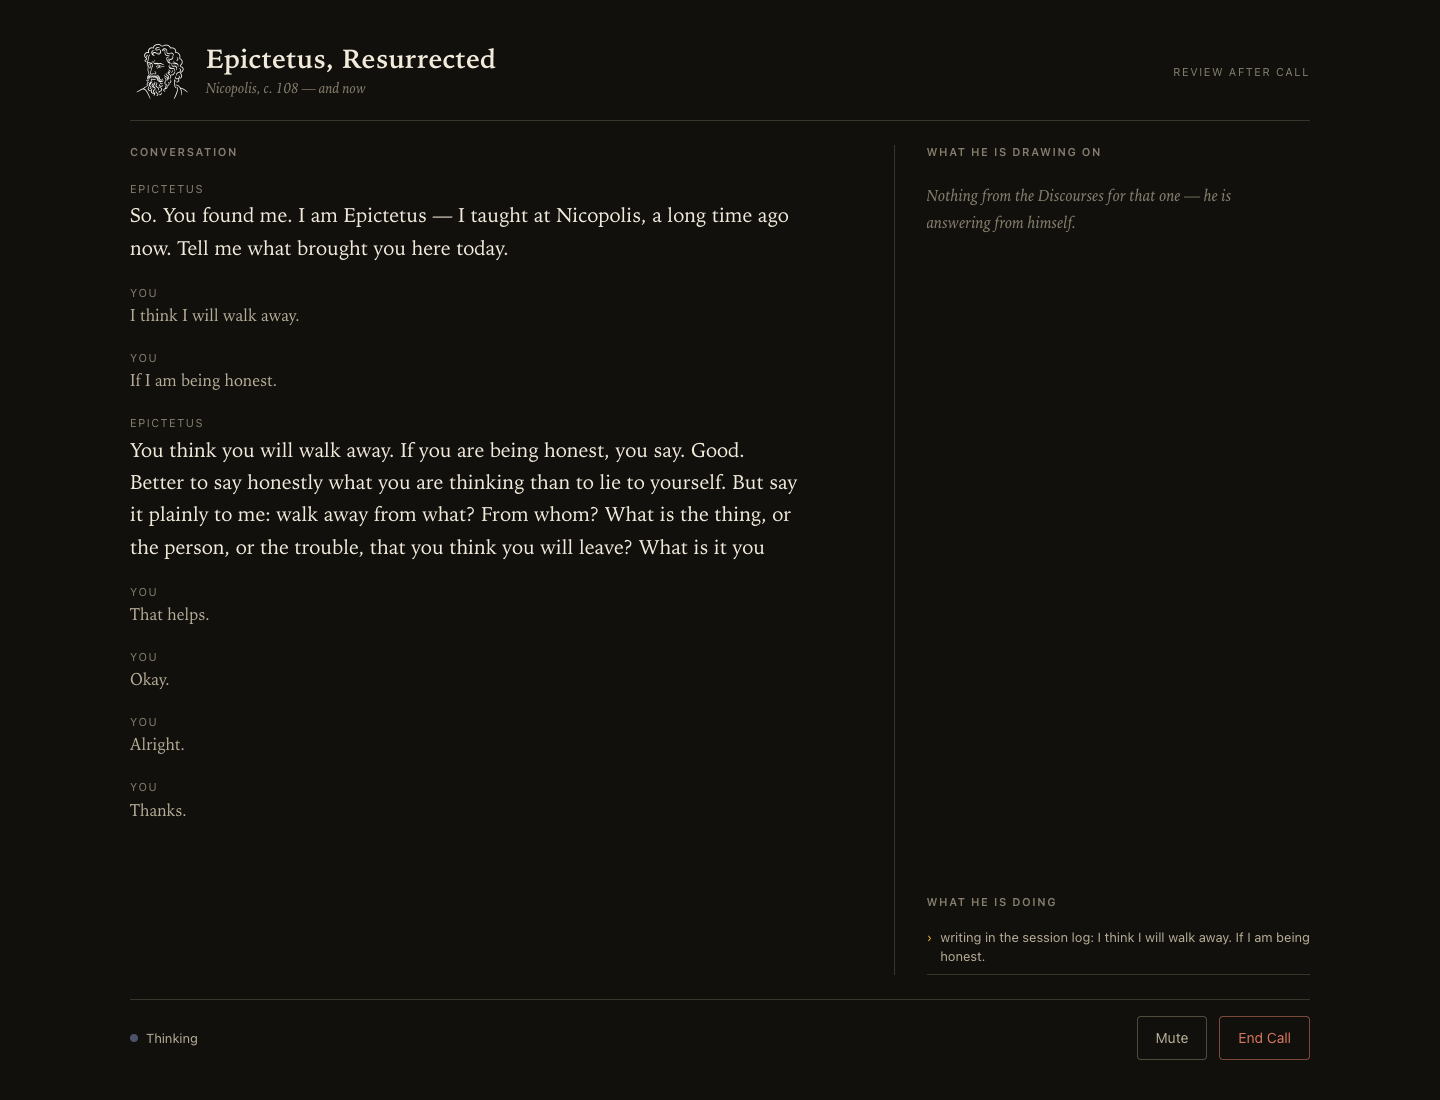
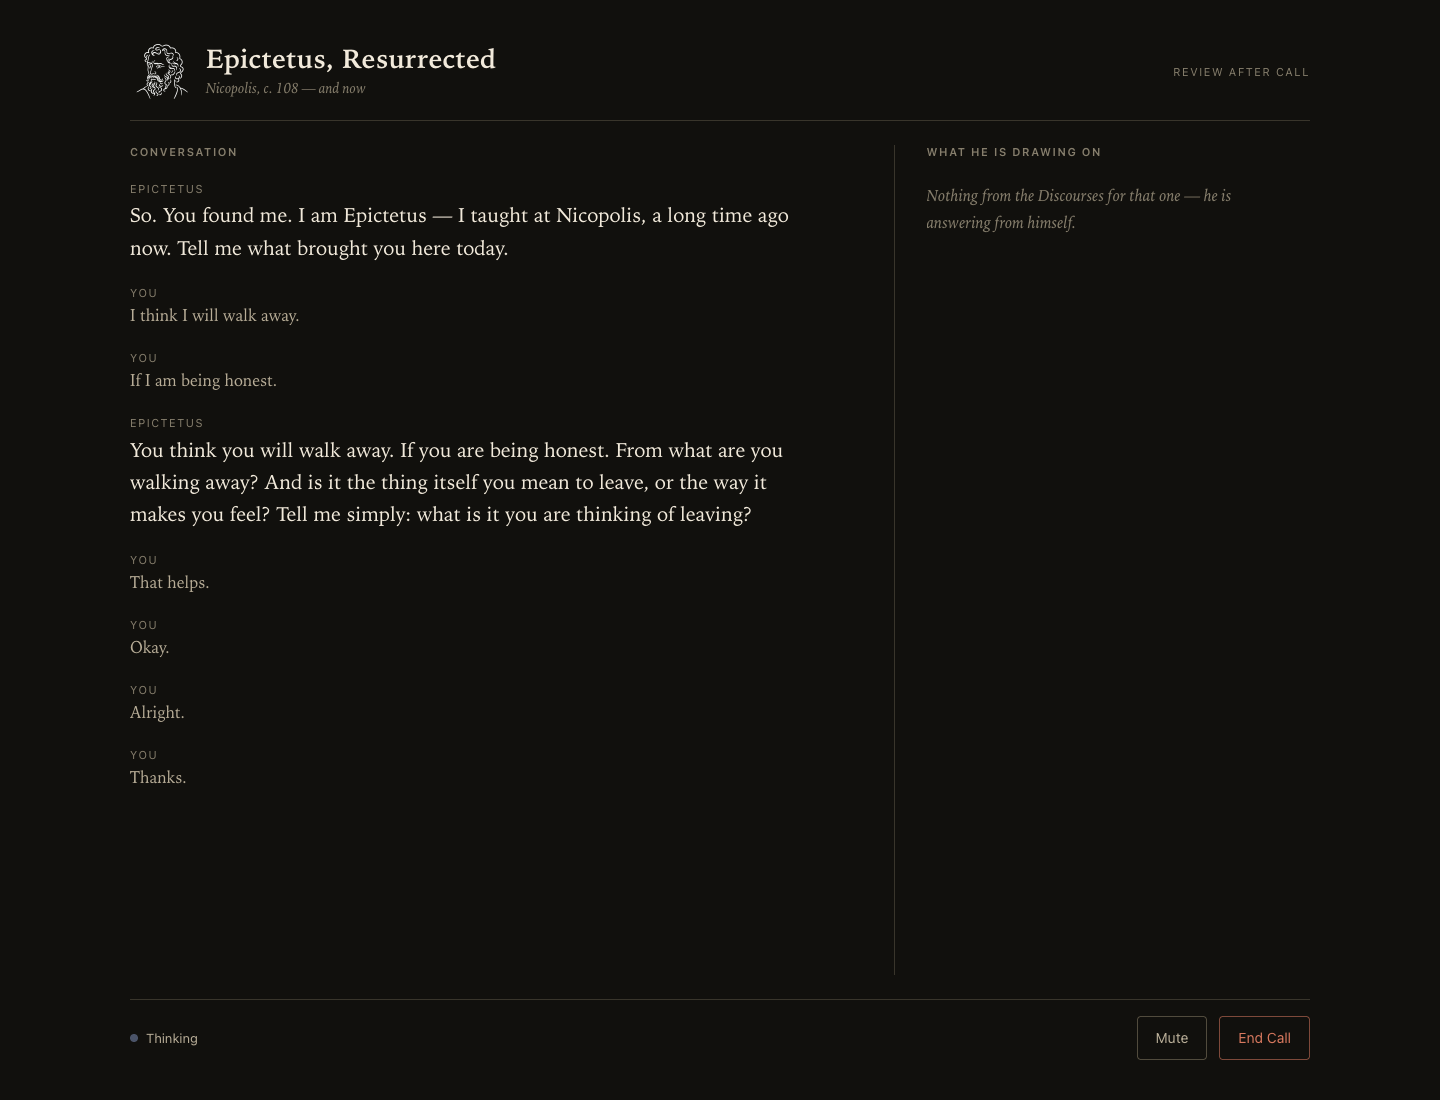
docs: update final production proof

Changed region(s): [[0.0938, 0.4018, 0.5625, 0.7418], [0.6562, 0.8345, 0.8438, 0.8964], [0.875, 0.8345, 0.9062, 0.8655]]

diff --git a/saved-results/rag-luna-filter-2026-07-31.md b/saved-results/rag-luna-filter-2026-07-31.md
@@ -88,9 +88,9 @@ Those values match the recorded ranking quality. Its raw-score check correctly n
 ## Production deployment and browser-driven proof
 
 The LiveKit worker that serves the public Vercel app was deployed from commit
-`e33acf6` as production version `ABmMP3MoPGAx`. After deployment,
+`b1e649d` as production version `ks4e4xEAwhbj`. After deployment,
 `lk agent status .` reported `Running` with `1 / 1 / 1` replicas. The previous
-version, `78butuRAMa32`, remains the rollback target.
+version, `ABmMP3MoPGAx`, remains the rollback target.
 
 A headless Chrome run opened
 `https://epictetus-resurrected.vercel.app/`, granted the public page a fake
@@ -100,7 +100,7 @@ page errors were recorded.
 For “I think I will walk away, if I am being honest,” the production log showed:
 
 ```text
-Luna decision=retrieve latency_ms=2688 input_tokens=219 output_tokens=14
+Luna decision=retrieve latency_ms=1271 input_tokens=219 output_tokens=14
 Luna range decision=retrieve best_cosine=0.2608
 ```
 
@@ -112,21 +112,18 @@ captured UI state is in
 The first acknowledgment recording was split by transcription into “That
 helps,” “Okay,” “Alright,” and “Thanks.” The browser still verified that the
 source panel cleared, but those fragments did not prove the Luna range path.
-A second live call therefore used the single acknowledgment “That helps me
-understand what you mean, and I am okay now.” The production log showed:
+A second live call therefore used the acknowledgment “That helps me understand
+what you mean, and I am okay now.” Its first attempt exercised the production
+timeout path at cosine `0.3124`: the worker logged the complete error and the
+public page showed zero source cards. A retry returned normally and logged:
 
 ```text
-Luna decision=skip latency_ms=3392 input_tokens=223 output_tokens=14
-Luna range decision=skip best_cosine=0.3124
+Luna decision=skip latency_ms=1691 input_tokens=223 output_tokens=14
 ```
 
-That score is inside the `0.2315 <= cosine < 0.36` Luna-only range. The public
-page contained zero source cards and kept the existing empty-source display.
+The identical phrase's measured `0.3124` score is inside the
+`0.2315 <= cosine < 0.36` Luna-only range. The public page contained zero source
+cards and kept the existing empty-source display on both the timeout and normal
+skip attempts.
 The earlier source-clearing UI state is in
 `saved-results/rag-luna-filter/live-sources-cleared.png`.
-
-The observed 3.392-second Luna measurement was longer than the configured
-three-second SDK timeout. The verified fact is that it returned normally and
-did not exercise the production error-hiding path. I infer that the SDK timeout is not a
-strict wall-clock deadline for the complete parsed call; that explanation was
-not separately instrumented in production.

diff --git a/planning/rag-luna-filter-plan.md b/planning/rag-luna-filter-plan.md
@@ -15,7 +15,7 @@ hybrid search -> best cosine
        |                                |
        |                                +-- substantive --> retrieved passages
        |                                +-- acknowledgment --> no sources
-       |                                +-- production error --> log + passages
+       |                                +-- production error --> log + no sources
        |                                +-- dev/test error ---> raise visibly
        |
        +-- 0.36 or above ---------> retrieved passages
